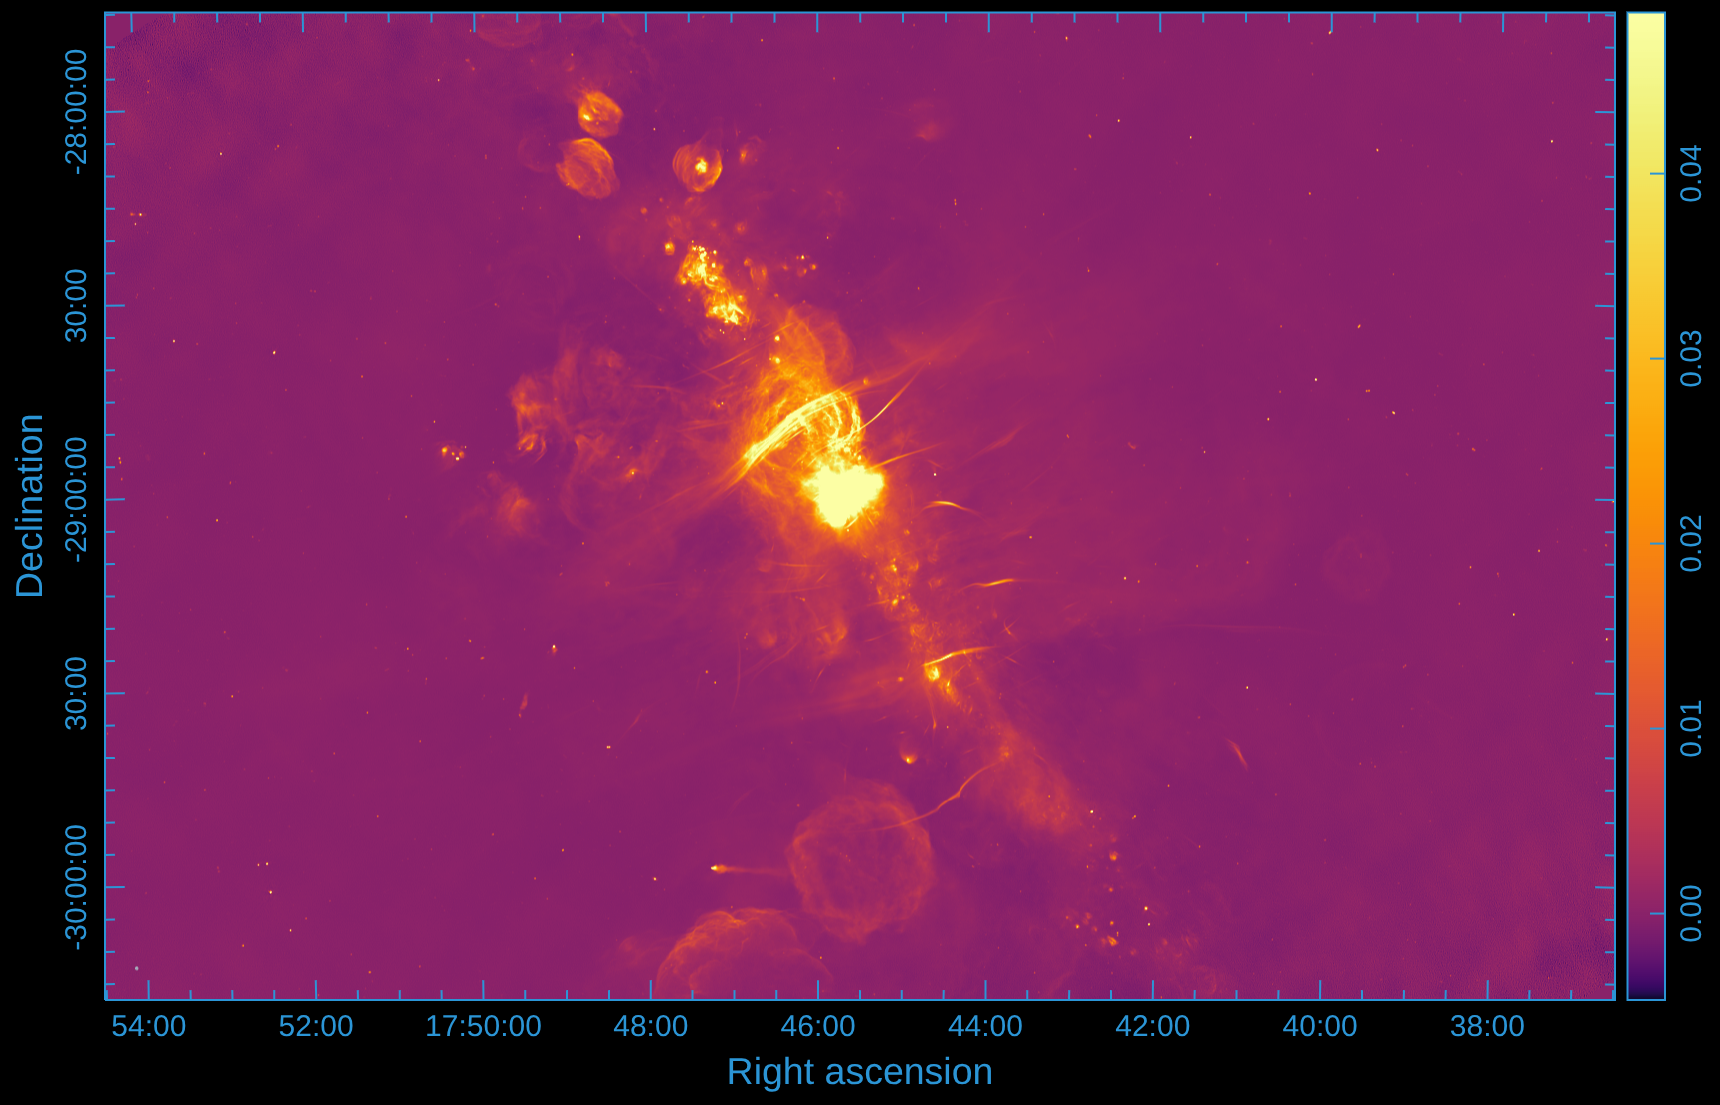
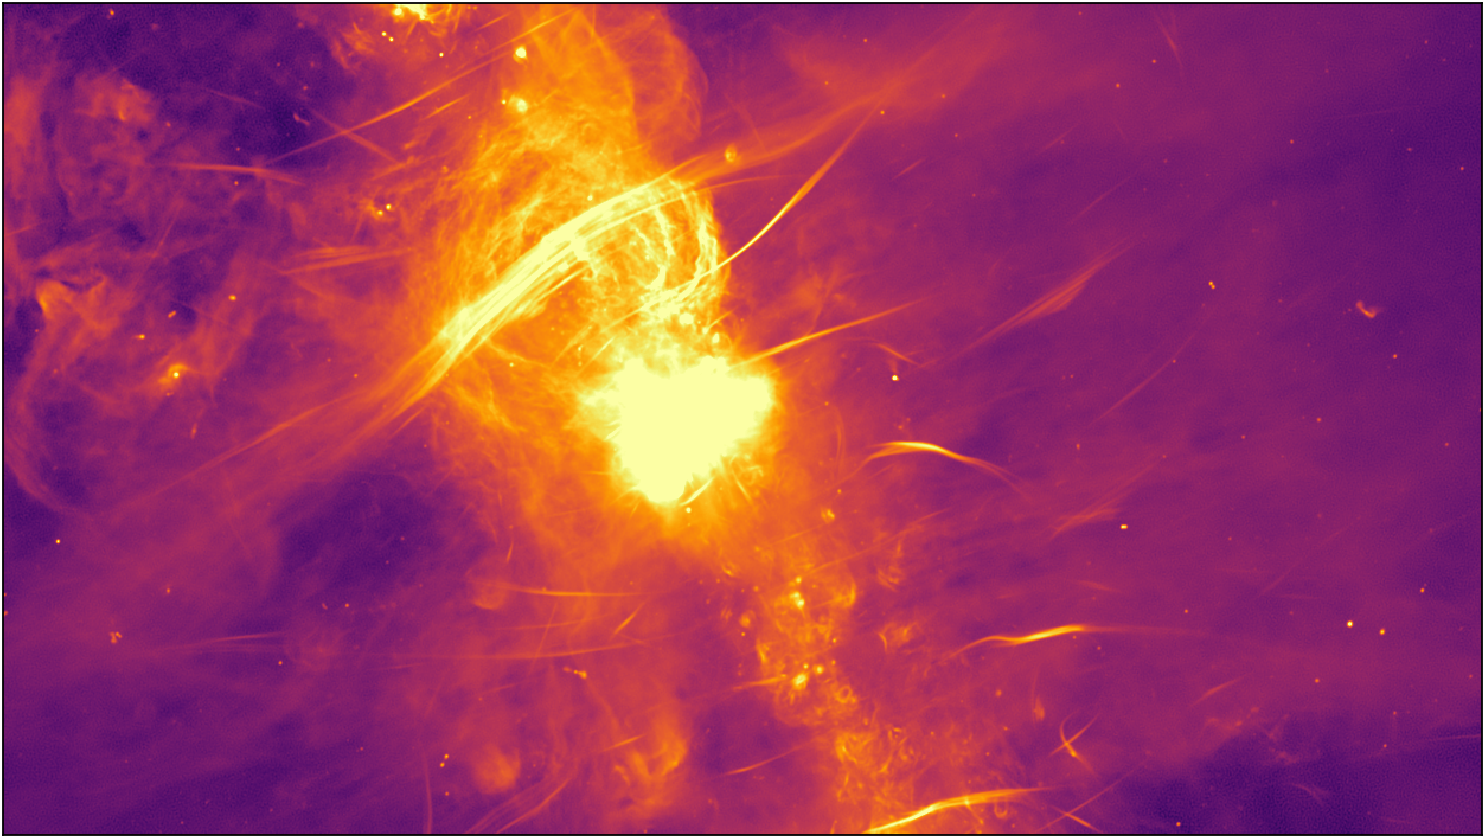
figures(j09): regenerate the deck's images from FITS instead of screenshots
New spec at scripts/figures/figures-j09.yml -- out_root is per-spec, so a
second deck needs a second file. ESO137 left alone as asked.

The CLEAN -> SARA -> model sequence was three viewer screenshots on three
different crops, three different colour scales, with axes, colourbars and
a blue blank-sky background. As a blink comparison it did not work: the
eye read the change of footprint and scale before anything about the
image. Now one crop, one scale, no chrome, and the narration's claims are
visible rather than asserted -- the negative bowls really are there in
CLEAN and really are gone in SARA.

Choices that took measuring rather than guessing:

- Crop 1.60 x 0.90 deg at 266.3426 -28.9974. Found by searching the
  image-space mosaic's finite-pixel mask for the largest 16:9 box it
  covers *completely*, then picking the position among those that centres
  Sgr A*. Blank corners in one panel of a blink comparison are worse than
  a narrower field.
- 16:9, not the slide's 3:2. `background-size: cover` fills the viewport,
  and both the browser and the extracted frames are 16:9.
- asinh, vmin -0.0015, vmax 0.05, shared by hand across the two files
  because share_norm only works within one figure. asinh because the point
  of the first panel is the bowls and log cannot show anything below zero.
  vmin sits just under CLEAN's 0.1st percentile (-0.0012); SARA's is
  -0.0006, so the figure shows that they are twice as deep rather than
  claiming it.
[…]

diff --git a/scripts/figures/make_figures.py b/scripts/figures/make_figures.py
@@ -20,8 +20,10 @@ Run it with an interpreter that has astropy, reproject and pyyaml, e.g.
 from __future__ import annotations
 
 import argparse
+import shutil
 import sys
 import time
+import warnings
 from pathlib import Path
 
 import numpy as np
@@ -107,8 +109,21 @@ def resolve_panel_image(spec: Spec, p: dict, region: dict,
     """
     op = p.get("op")
     if op is None:
-        img = prepare(spec.image(p["image"]), region, max_pixels)
+        img = smooth_image(prepare(spec.image(p["image"]), region, max_pixels), p)
         return apply_mask_by(spec, img, p, region, max_pixels), {"a": img}
+
+    if op == "mean":
+        # Any number of images on a common grid. Written for the mean
+        # sensitivity pattern -- three primary beams averaged is the mosaic's
+        # actual response, and it is not the same picture as any one of them.
+        first = prepare(spec.image(p["images"][0]), region, max_pixels)
+        stack = [first.data] + [spec.image(k).reproject_onto(first).data
+                                for k in p["images"][1:]]
+        with warnings.catch_warnings():
+            warnings.simplefilter("ignore", RuntimeWarning)
+            out = np.nanmean(np.stack(stack), axis=0)
+        img = SkyImage(out, first.wcs, first.header, first.path, p.get("title"))
+        return apply_mask_by(spec, smooth_image(img, p), p, region, max_pixels), {"a": first}
 
     if op in ("difference", "ratio", "spix"):
         a = prepare(spec.image(p["images"][0]), region, max_pixels)
@@ -152,6 +167,29 @@ def resolve_panel_image(spec: Spec, p: dict, region: dict,
 
     img = SkyImage(out, a.wcs, a.header, a.path, p.get("title"))
     return apply_mask_by(spec, img, p, region, max_pixels), {"a": a, "b": b}
+
+
+def smooth_image(img: SkyImage, p: dict) -> SkyImage:
+    """Convolve with a Gaussian of `smooth` arcsec FWHM, if asked.
+
+    A sparsity-prior model is close to a set of spikes on a pixel grid.
+    Block-averaging it down for display turns those into single bright pixels
+    scattered on black, which reads as noise rather than as the structure the
+    model actually carries. A light convolution -- stated in the caption --
+    is how a model is normally made legible.
+    """
+    fwhm = p.get("smooth")
+    if not fwhm:
+        return img
+    from astropy.convolution import Gaussian2DKernel, convolve_fft
+
+    sigma_pix = float(fwhm) / (2.0 * np.sqrt(2.0 * np.log(2.0))) / img.pixel_scale
+    if sigma_pix < 0.3:
+        return img
+    out = convolve_fft(img.data, Gaussian2DKernel(sigma_pix),
+                       nan_treatment="interpolate", preserve_nan=True,
+                       allow_huge=True, normalize_kernel=True)
+    return SkyImage(out, img.wcs, img.header, img.path, img.label)
 
 
 def apply_mask_by(spec: Spec, img: SkyImage, p: dict, region: dict,
@@ -370,6 +408,8 @@ def render(spec: Spec, name: str, fig_spec: dict, dpi: int | None) -> Path:
             cbar_label=p.get("cbar_label"),
             frame=p.get("frame", fig_spec.get("frame", True)),
             annotations=p.get("annotations", []),
+            contours=p.get("contours"),
+            contour_color=p.get("contour_color", "#ffffff"),
         )
         ax, _ = panel.draw(fig, (rows, cols, k + 1), spec.theme)
 
@@ -387,9 +427,20 @@ def render(spec: Spec, name: str, fig_spec: dict, dpi: int | None) -> Path:
     fig.subplots_adjust(**fig_spec.get("adjust", {"hspace": 0.03, "wspace": 0.03}))
 
     out = spec.out_root / fig_spec.get("out", f"{name}.png")
-    return skyfig.save(fig, out, dpi=dpi or int(fig_spec.get("dpi", spec.dpi)),
-                       transparent=fig_spec.get("transparent", True),
-                       theme=spec.theme)
+    written = skyfig.save(fig, out, dpi=dpi or int(fig_spec.get("dpi", spec.dpi)),
+                          transparent=fig_spec.get("transparent", True),
+                          theme=spec.theme)
+
+    # Two decks occasionally want the identical figure, and each deck keeps its
+    # own images/ directory. Copying beats duplicating sixty lines of spec into
+    # a second file, where the two would drift apart the first time either is
+    # touched. Paths are repo-relative.
+    for extra in fig_spec.get("copy_to", []) or []:
+        dest = REPO / extra
+        dest.parent.mkdir(parents=True, exist_ok=True)
+        shutil.copyfile(written, dest)
+        print(f"  also wrote {extra}")
+    return written
 
 
 def main() -> int:

diff --git a/scripts/figures/skyfig.py b/scripts/figures/skyfig.py
@@ -349,6 +349,8 @@ class Panel:
     cbar_label: str | None = None
     frame: bool = True
     annotations: list = field(default_factory=list)
+    contours: list | None = None
+    contour_color: str = "#ffffff"
 
     def draw(self, fig, subplot_spec, theme: dict):
         """`subplot_spec` is an (nrows, ncols, index) triple.
@@ -376,6 +378,14 @@ class Panel:
                     fontweight="600",
                     bbox=dict(boxstyle="round,pad=0.35", fc=theme["bg"],
                               ec="none", alpha=0.65))
+
+        if self.contours:
+            # Drawn in data units, not percentiles: on a primary beam the
+            # levels that mean something are 0.5 and 0.1, and a percentile
+            # would silently give a different level in every panel -- which is
+            # exactly the comparison the figure exists to make.
+            ax.contour(img.data, levels=sorted(float(c) for c in self.contours),
+                       colors=self.contour_color, linewidths=0.9, alpha=0.75)
 
         if self.beam and img.beam is not None:
             draw_beam(ax, img, theme)

diff --git a/scripts/figures/README.md b/scripts/figures/README.md
@@ -34,10 +34,41 @@ should be derived from those footprints rather than guessed.
 | `compare_regions.py` | Region-file-driven zoom comparison — see below. |
 | `stamp_beam.py` | Write `BMAJ`/`BMIN`/`BPA` back into a header that lost them. |
 | `psf_profile.py` | Azimuthal sidelobe profile of one or more PSFs. |
-| `figures.yml` | The figures for `contributions/sgr-a-complex-uhf`. |
+| `figures.yml` | The figures for `contributions/sgr-a-complex-uhf` (URSI J05). |
+| `figures-j09.yml` | The figures for `contributions/pfb-imaging-galactic-centre` (URSI J09). |
 | `regions/` | ds9 / CRTF region files naming what to zoom on. |
 | `../../figures/scratch/` | Figures generated but not currently on a slide. Regenerable; see its README. |
 | `reference/` | The five Africanus III paper scripts this was factored out of. Kept for provenance — not run. |
+
+## A second spec — `figures-j09.yml`
+
+`out_root` is a property of the spec, so a second deck needs a second file:
+
+```bash
+$PY scripts/figures/make_figures.py --spec scripts/figures/figures-j09.yml --list
+$PY scripts/figures/make_figures.py --spec scripts/figures/figures-j09.yml gc-uhf-sara
+```
+
+Three things worth knowing before touching it, because none are obvious:
+
+- **The J09 video is already recorded**, 66 frames with per-slide audio.
+  Replacing an *image* is free — no slide, fragment or frame count changes, so
+  the frames re-extract and re-mux against the same audio. Adding or removing a
+  *slide* renumbers every audio file after it.
+- **Full-bleed backgrounds want 16:9, not the slide's 3:2.** A
+  `background-image` with `background-size: cover` fills the viewport, and both
+  the browser and the extracted frames are 16:9; a 3:2 figure loses its top and
+  bottom.
+- **`GC_UHF_CLEAN` and `GC_UHF_SARA` are a blink comparison.** Same region, and
+  `vmin`/`vmax` written out by hand rather than taken from percentiles, because
+  `share_norm` only works within one figure and these are separate files. Change
+  one, change the other. The crop is the largest box the image-space mosaic
+  covers *completely*: with blank corners the eye reads the change in outline
+  instead of the change in image quality.
+
+`copy_to:` on a figure writes the same PNG into a second deck. `beams.png` uses
+it — both talks make an argument from that picture, and each deck keeps its own
+`images/`.
 
 ## Region zooms — `compare_regions.py`
 
